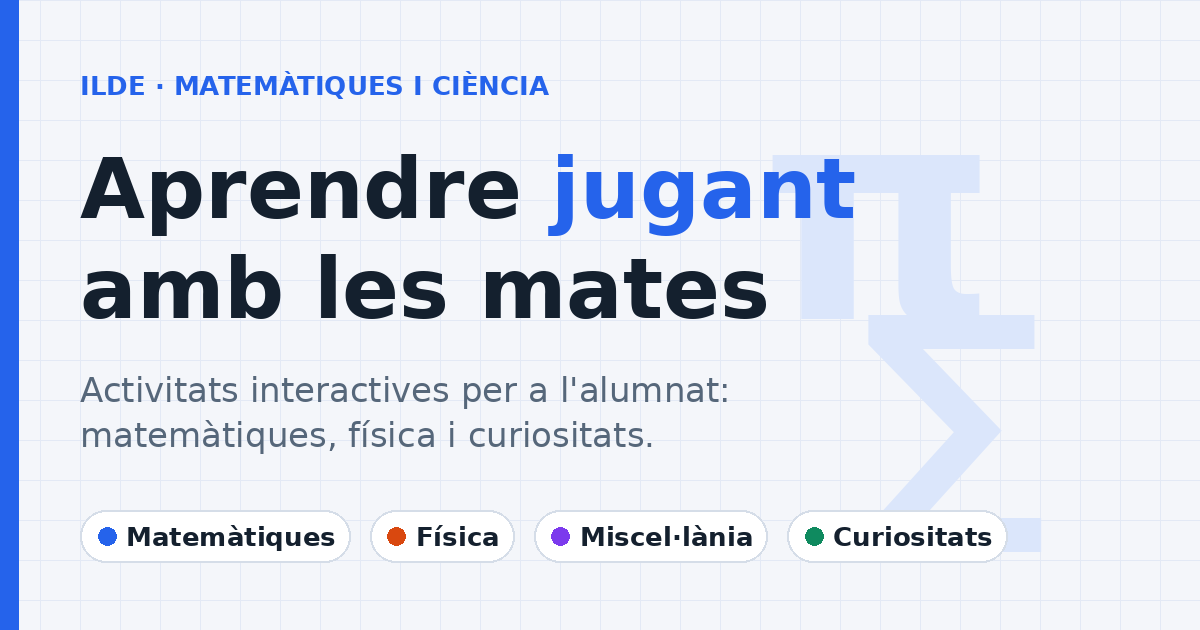
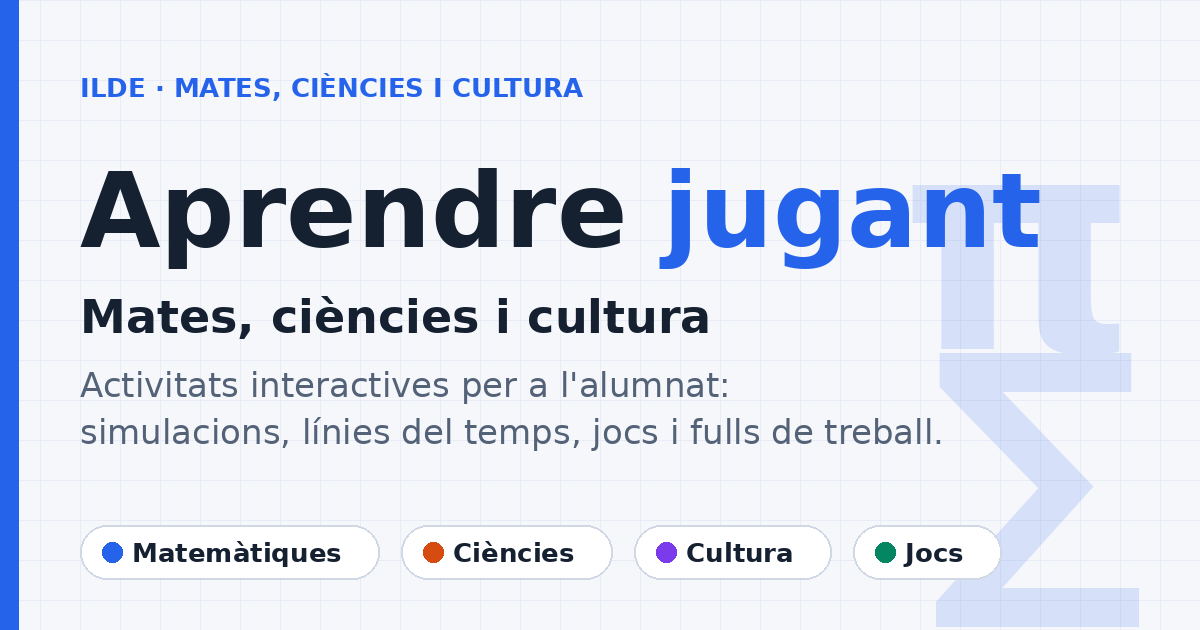
Portada: actualitza la imatge de previsualització (og-image) amb el títol nou 'Aprendre jugant · Mates, ciències i cultura'
Claude-Session: https://claude.ai/code/session_01EA6FqSWCTovuXZwPh7cfAY

Changed region(s): [[0.0617, 0.2413, 0.9558, 0.9952], [0.1542, 0.1206, 0.4933, 0.1508], [0.0925, 0.1206, 0.1233, 0.1508]]

diff --git a/index.html b/index.html
@@ -14,7 +14,7 @@
 <meta property="og:title" content="Aprendre jugant · Mates, ciències i cultura">
 <meta property="og:description" content="Activitats interactives de mates, ciències i cultura per a l&#x27;alumnat: simulacions, línies del temps, jocs i fulls de treball.">
 <meta property="og:url" content="https://ildemoralesmates.github.io/">
-<meta property="og:image" content="https://ildemoralesmates.github.io/og-image.png">
+<meta property="og:image" content="https://ildemoralesmates.github.io/og-image.png?v=2">
 <meta property="og:image:width" content="1200">
 <meta property="og:image:height" content="630">
 <meta name="twitter:card" content="summary_large_image">
